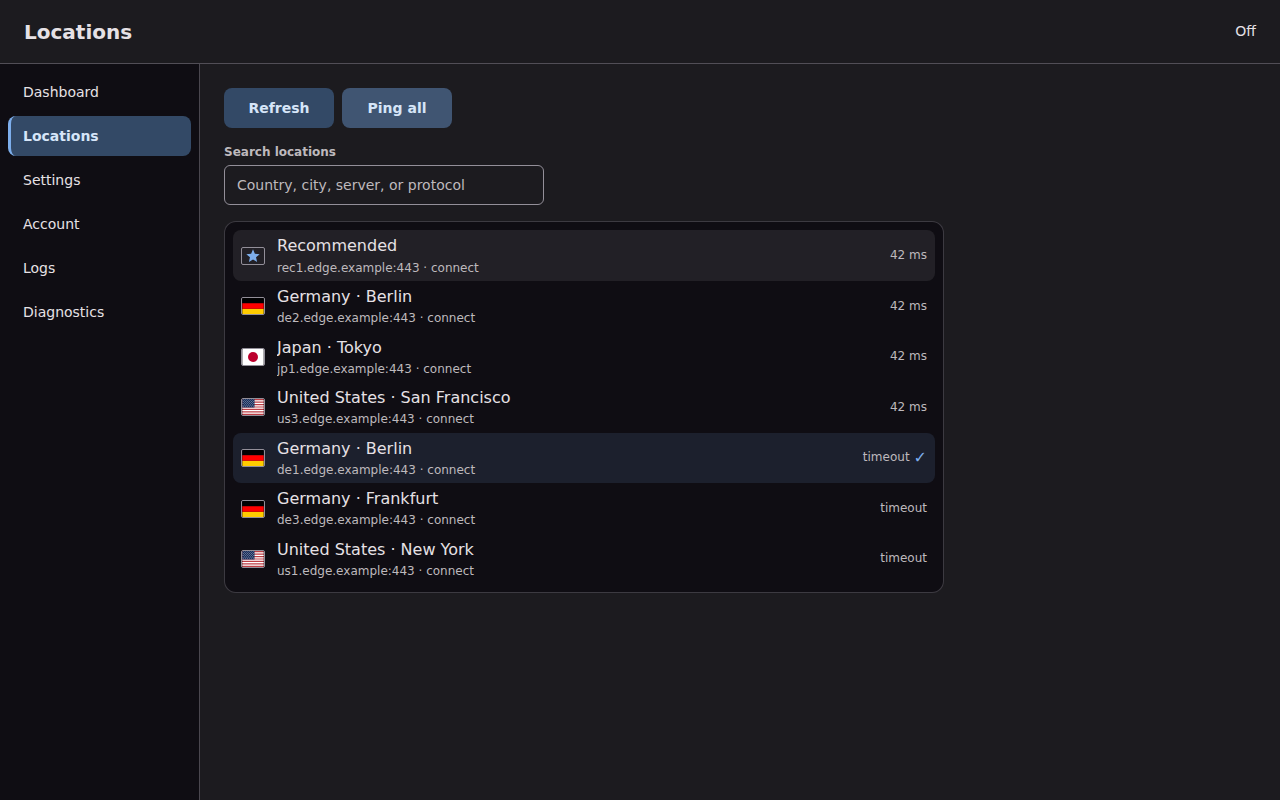
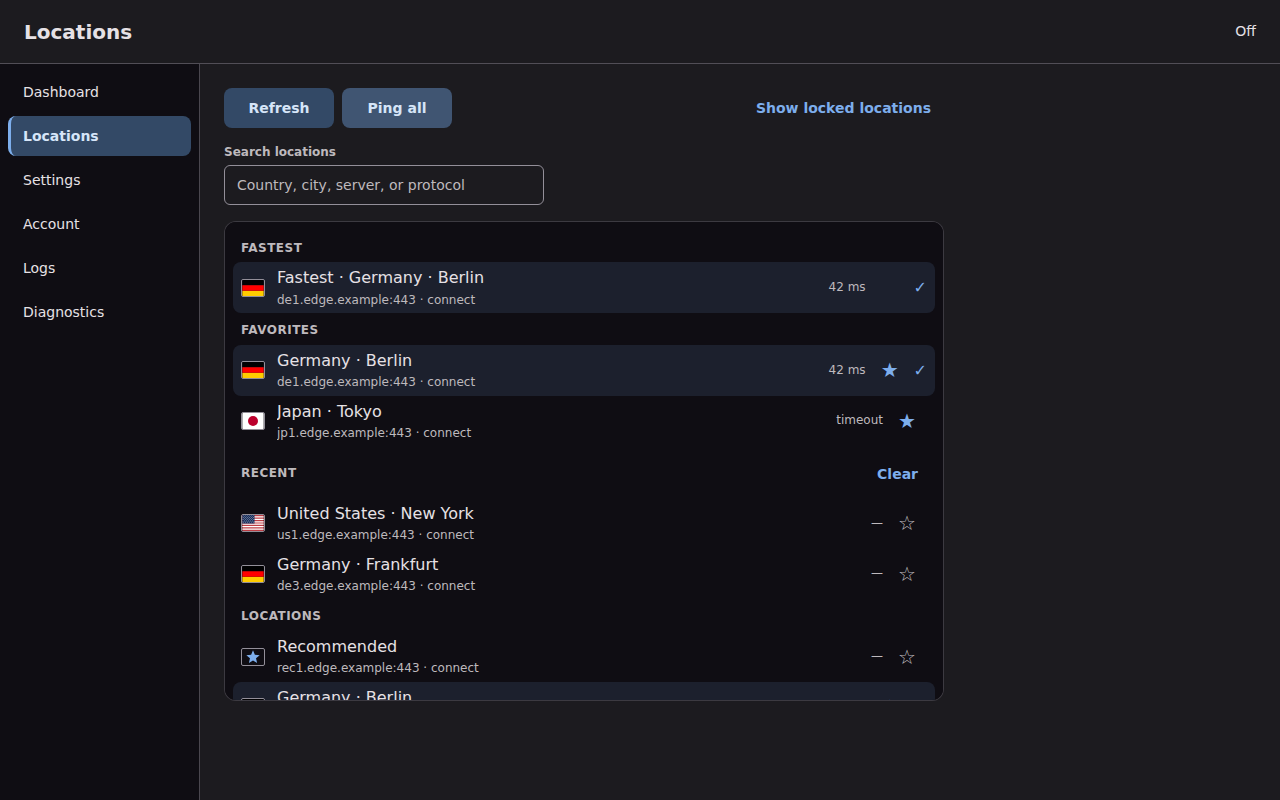
docs: refresh the GUI and TUI screenshots

Changed region(s): [[0.1562, 0.2812, 0.75, 0.875], [0.5938, 0.125, 0.7188, 0.1562], [0.6875, 0.6875, 0.7188, 0.7188]]

diff --git a/README.md b/README.md
@@ -42,17 +42,17 @@ Captured in the Dark theme with sample data.
 
 | Dashboard | Locations |
 | --- | --- |
-| ![Windows GUI dashboard: connected tunnel, quota and session totals](screenshots/windows-gui/dashboard.png) | ![Windows GUI locations: server rows with real flags, search and ping times](screenshots/windows-gui/locations.png) |
+| ![Windows GUI dashboard: connected tunnel, quota and session totals](screenshots/windows-gui/dashboard.png) | ![Windows GUI locations: pinned Fastest, Favorites and Recent sections above flagged server rows with search and real-edge ping times](screenshots/windows-gui/locations.png) |
 
-![Windows GUI settings: theme and accent controls, version, and background service rows](screenshots/windows-gui/settings.png)
+![Windows GUI settings: the Region relay controls and the background service rows](screenshots/windows-gui/settings.png)
 
 ### Linux TUI
 
 | Dashboard | Locations |
 | --- | --- |
-| ![Linux TUI dashboard: connected state, quota bar and session totals](screenshots/linux-tui/dashboard.png) | ![Linux TUI locations: flagged server rows, Recommended first and ping times](screenshots/linux-tui/locations.png) |
+| ![Linux TUI dashboard: connected state, quota bar and session totals](screenshots/linux-tui/dashboard.png) | ![Linux TUI locations: Fastest, Favorites and Recent sections above flagged rows, a locked badge and ping times](screenshots/linux-tui/locations.png) |
 
-![Linux TUI settings: all settings rows and the TLS split hint](screenshots/linux-tui/settings.png)
+![Linux TUI settings: the Region relay rows with their region-only hint](screenshots/linux-tui/settings.png)
 
 ### Android phone
 

diff --git a/docs/superpowers/specs/2026-10-23-v0.6.0-roadmap-design.md b/docs/superpowers/specs/2026-10-23-v0.6.0-roadmap-design.md
@@ -293,7 +293,7 @@ translation review.
 
 | Key | Type / default | Introduced | UI |
 |---|---|---|---|
-| `allow_locked` | bool, false | v0.8.0 | Allow locked locations |
+| `allow_locked` | bool, false | v0.9.0 | Allow locked locations |
 | `smart_routing` | bool, false | v0.12.0 | Smart routing |
 | `direct_countries` | []string, empty | v0.12.0 | Countries |
 | `direct_domains` | []string, empty | v0.12.0 | Custom domains |
@@ -301,8 +301,8 @@ translation review.
 | `blocklists` | bool, false | v0.10.0 | Block ads and trackers |
 | `blocklist_allow` | []string, empty | v0.10.0 | Allowlist |
 | `doh_url` | string, empty | v0.10.0 | Custom DNS over HTTPS |
-| `relay_url` | string, empty | v0.8.0 | Control-plane relay |
-| `relay_token` | secret, empty | v0.8.0 | Relay token |
+| `relay_url` | string, empty | v0.9.0 | Control-plane relay |
+| `relay_token` | secret, empty | v0.9.0 | Relay token |
 | `auto_update` | `off\|check\|download`, `check` | v0.13.0 | Automatically check for updates |
 | `language` | `system\|en\|fa`, `system` | v0.14.0 | Language |
 | `account_rotation` | bool, false | v0.6.0 | Rotate accounts when quota is low |

diff --git a/scripts/screenshots/README.md b/scripts/screenshots/README.md
@@ -14,7 +14,7 @@ Run from the repository root:
 
     scripts/screenshots/capture.sh
 
-The script rebuilds the web harness with the v0.8.0 UI target label (override
+The script rebuilds the web harness with the v0.9.0 UI target label (override
 with `KUMIHO_CAPTURE_VERSION`), starts it on `0.0.0.0:7407`, and restarts it
 before each screen so a notice from one state cannot leak into the next. It
 stops the harness when done. The label is a screenshot target, not an app
@@ -46,7 +46,7 @@ The GUI images come from the existing visual-review manifest:
 | --- | --- |
 | `windows-gui/dashboard.png` | `dashboard/dark-connected.png` |
 | `windows-gui/locations.png` | `locations/dark-speed-order.png` |
-| `windows-gui/settings.png` | `settings/dark.png` |
+| `windows-gui/settings.png` | `settings/dark-settings-region.png` |
 
 The TUI side runs the normal test package with `KUMIHO_TUI_CAPTURE_DIR` set,
 which makes `TestCaptureViews` write raw ANSI for the dashboard, locations and

diff --git a/AGENTS.md b/AGENTS.md
@@ -98,7 +98,7 @@ them locally for any change under `android/`, `mobile/` or
   the connected suite; also the emulator action entry point.
 - `scripts/screenshots/capture.sh` — regenerate the README's GUI and TUI
   screenshots; builds the web harness with a release version label (default
-  `v0.5.1`), restarts it on `0.0.0.0:7407` per GUI screen, and renders the
+  `v0.9.0`), restarts it on `0.0.0.0:7407` per GUI screen, and renders the
   TUI captures. Noto Color Emoji is required for the flag captures. See
   `scripts/screenshots/README.md`.
 
